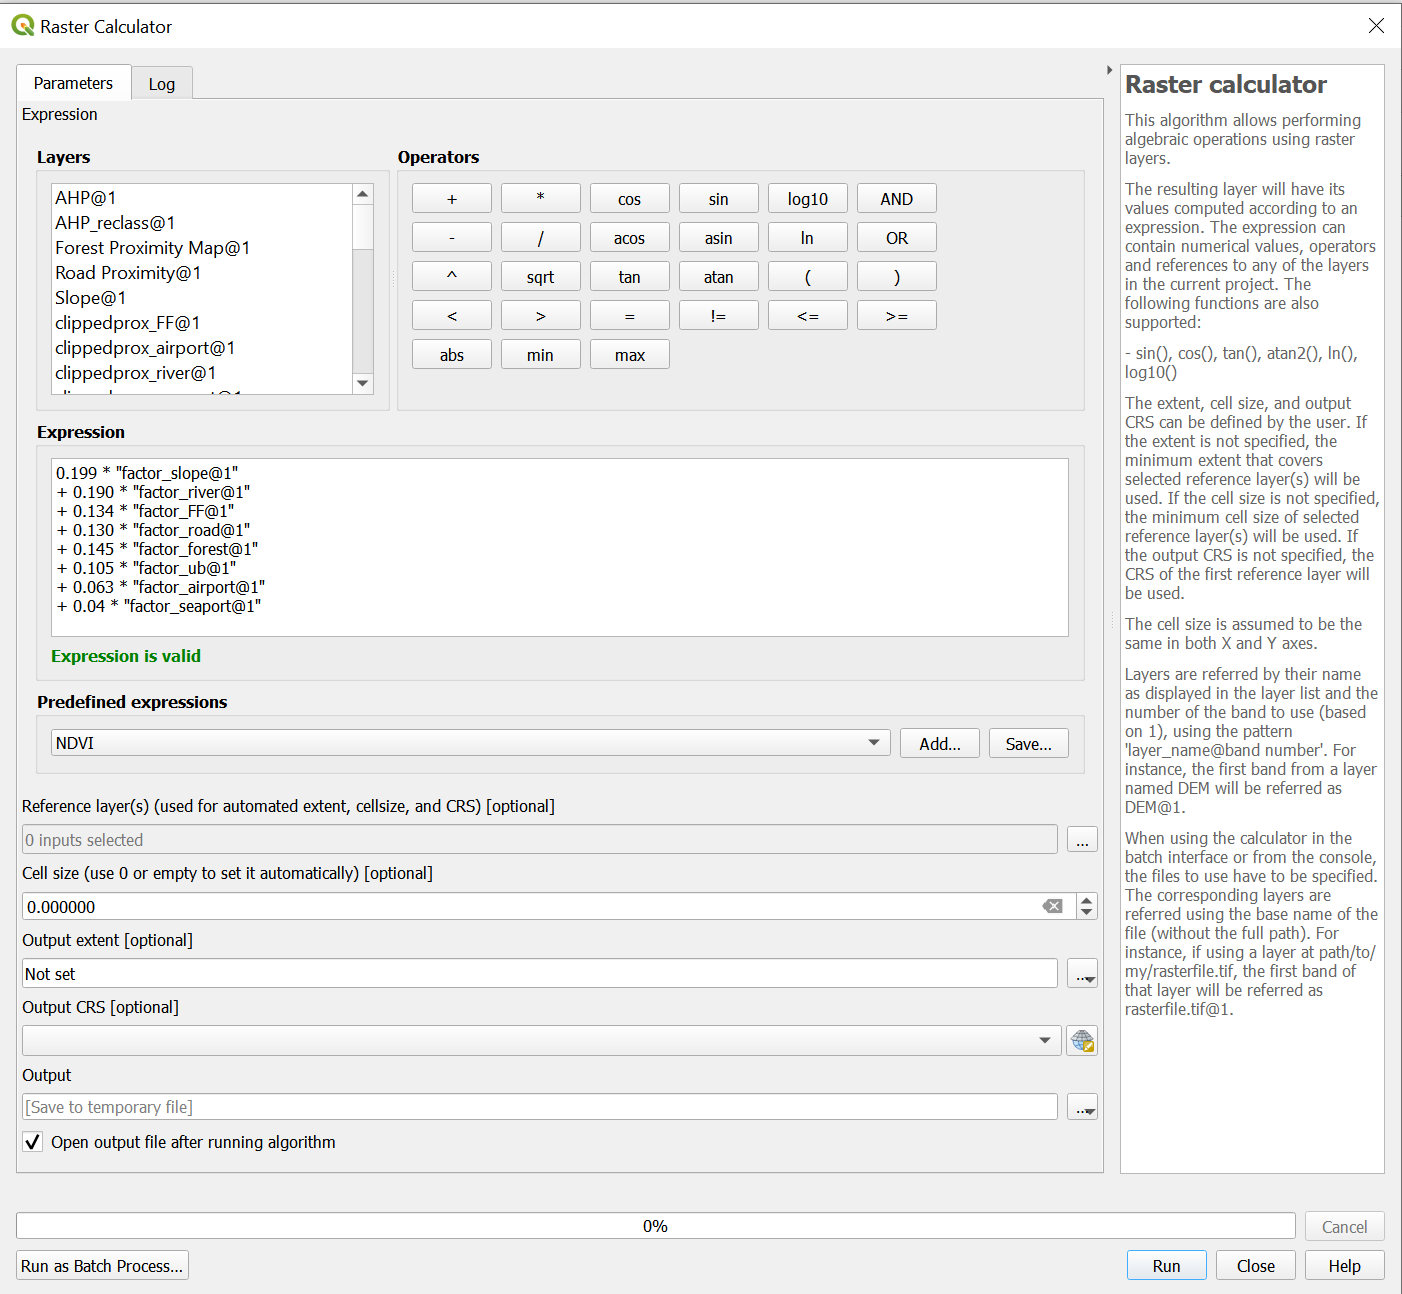
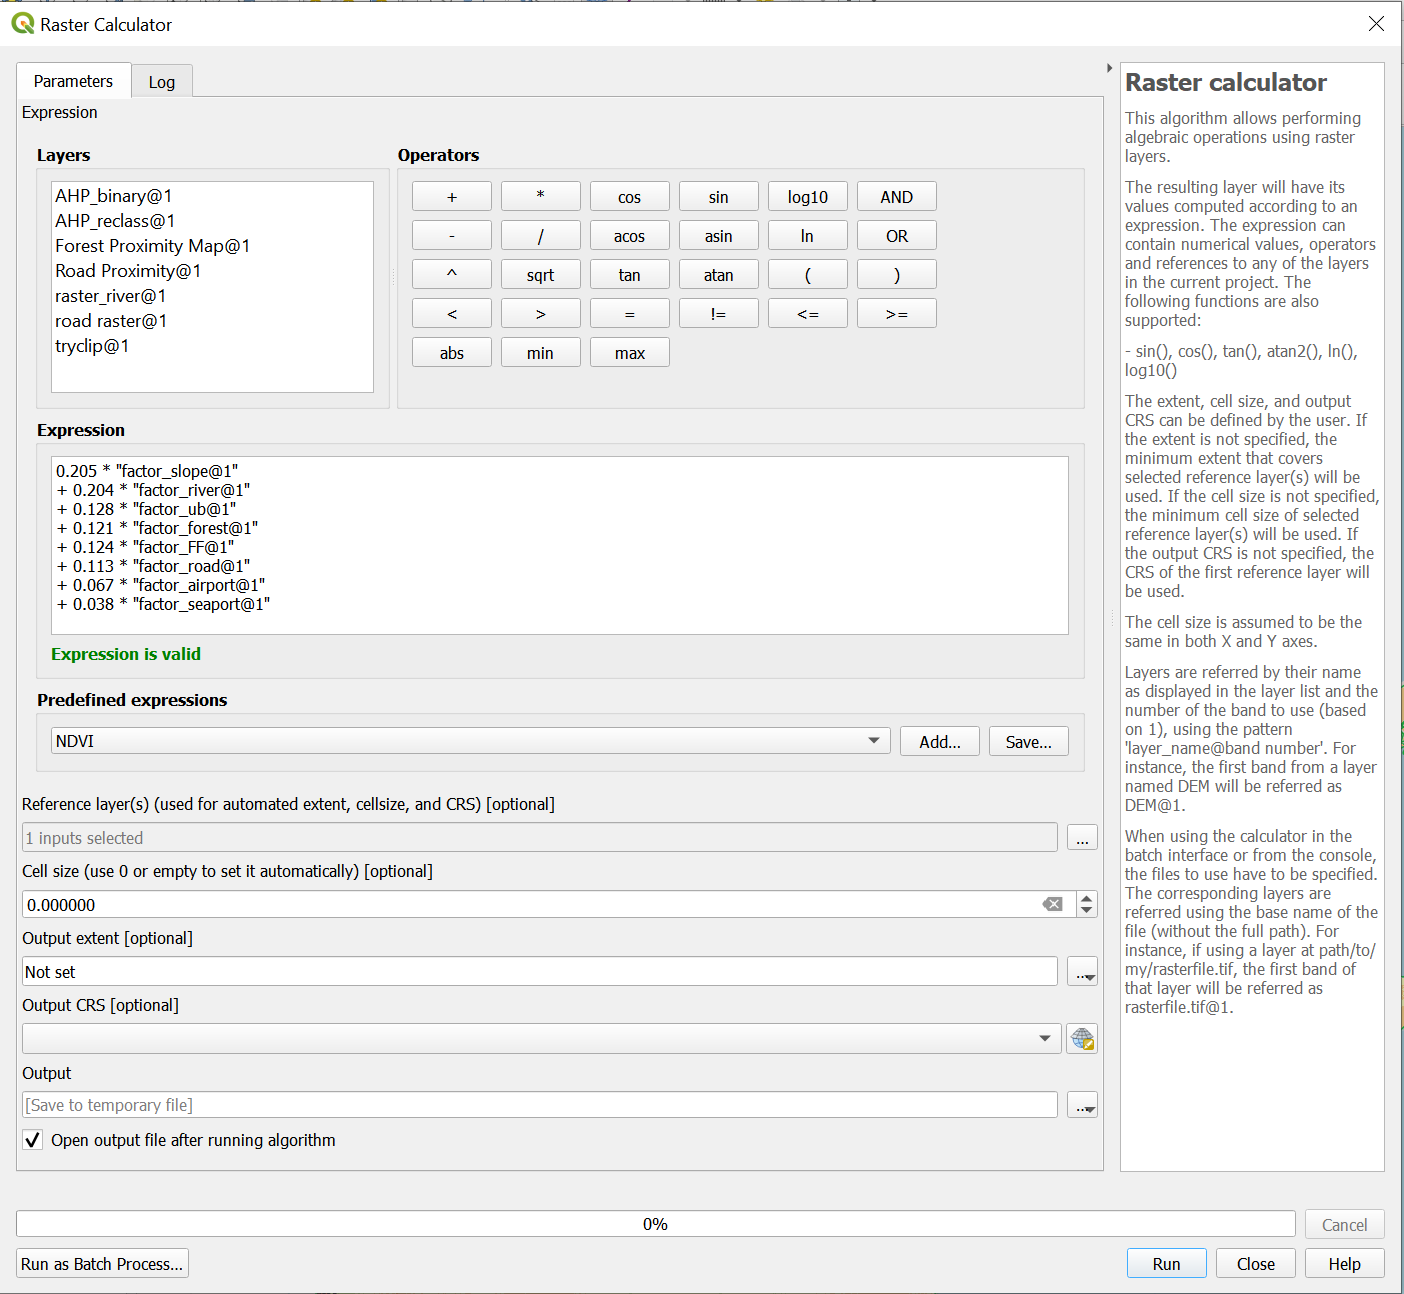
updated ahp again

diff --git a/_site/t2-dataprep-ahp.html b/_site/t2-dataprep-ahp.html
@@ -2112,7 +2112,7 @@ Data Preparation
 <p>First, open toolbox and type in ‘Raster Calculator’ and open it</p>
 <p>In the Expression box, key in (factor layer) * (assigned weights) for all the individual factors (slope, river, road, forest fire, forest area, urban settlement, airport, seaport)</p>
 <div class="layout-chunk" data-layout="l-body">
-<p><img src="img/AHP1.png" width="701" /></p>
+<p><img src="img/AHP1.png" width="702" /></p>
 </div>
 <ul>
 <li>Please use the values here:</li>
